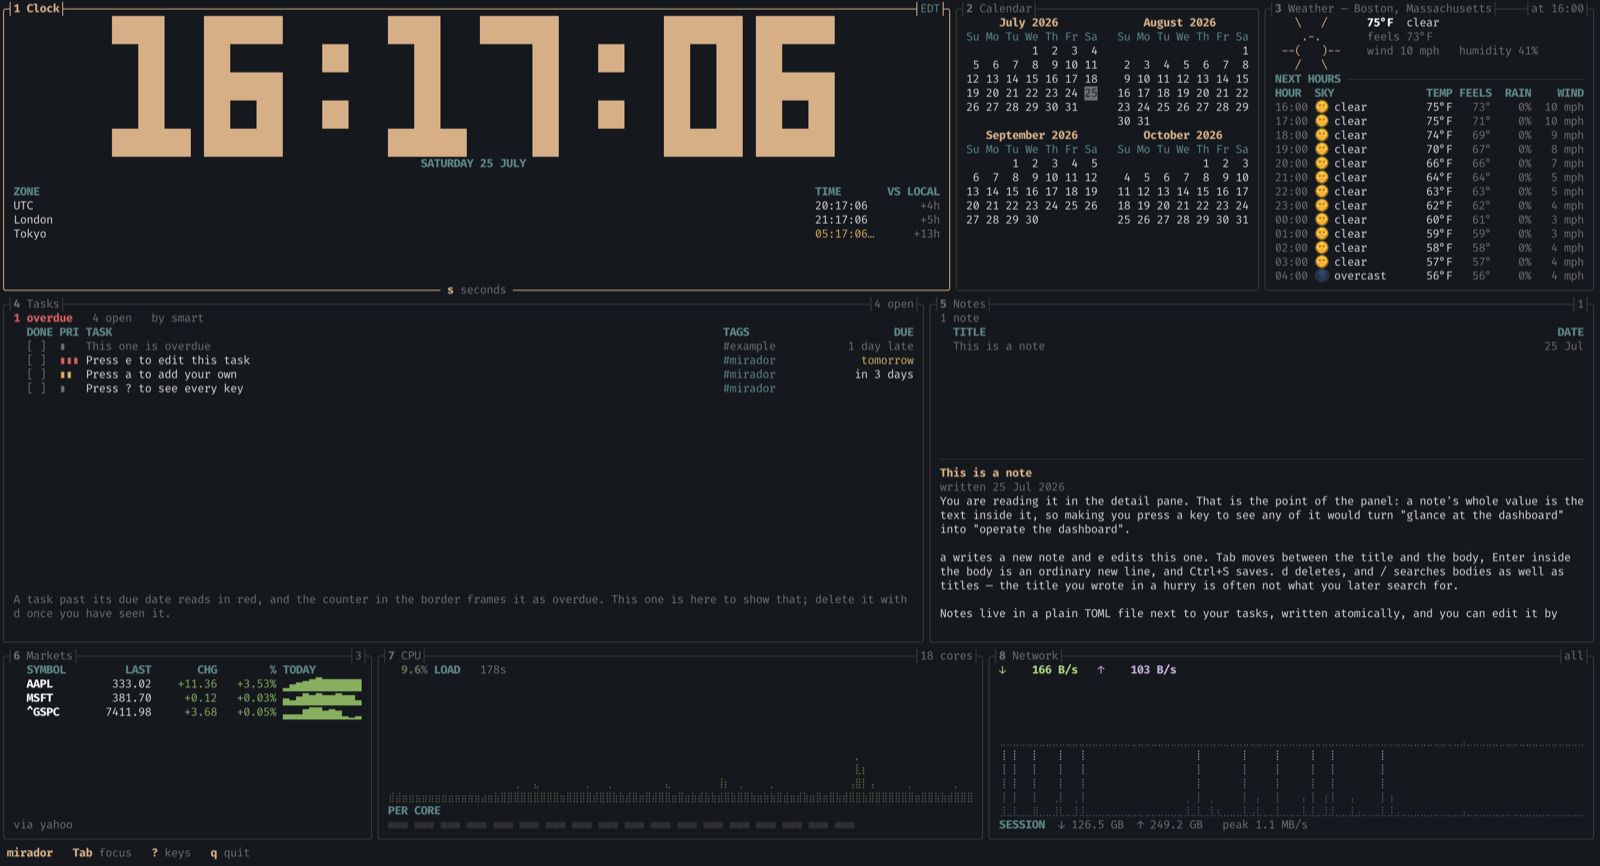
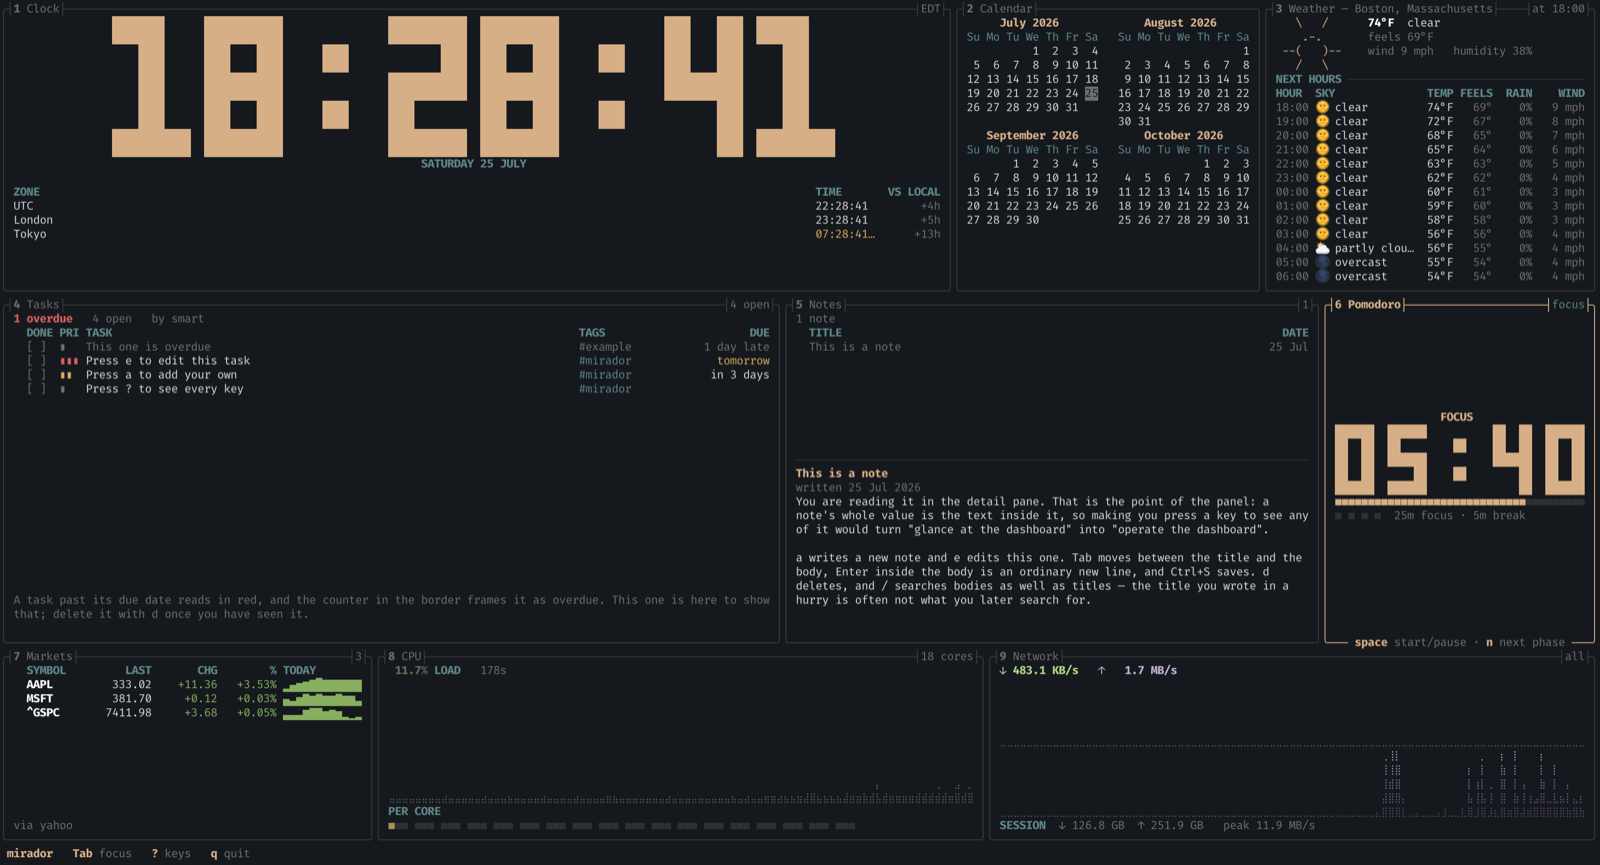
Retake the hero screenshot, with the timer in it and focused
The old one predated the pomodoro panel, so the caption had to admit as much
and point a reader somewhere else — a note written to be deleted, and this
deletes it. All nine panels are now in the shot.

It is a better capture than the one it replaces for a reason beyond the extra
panel: the pomodoro has focus, so its frame is lit and its key hints are in its
bottom border while every other panel is dimmed. Focus by recession and the
frame-as-widget-bus are two of the ideas this file describes at length and
could not previously show, and the caption now points at them rather than
describing the layout the picture already makes obvious.

Downscaled 3406px to 1600 with sips, 673 KB to 456 KB — the same sizing as
before, which keeps the forecast table and the task rows readable and stays
well above the width GitHub renders it at. Checked by eye at the final size
rather than trusting the number, since legibility is the whole reason not to
go lower.

Still referenced by absolute URL and still excluded from the published crate;
`cargo package --list` reports nothing from docs/ and nothing matching *.png.

diff --git a/README.md b/README.md
@@ -16,12 +16,12 @@ nothing shimmers, and nothing is designed to pull you back to it.
 
 A *mirador* is a lookout — the tower you climb to see everything at once.
 
-![The mirador dashboard: a block-numeral clock, four months of calendar, weather with an hourly forecast, the task list and notes, and a market watchlist beside live CPU and network graphs](https://raw.githubusercontent.com/jchultarsky/mirador/main/docs/screenshot.png)
+![The mirador dashboard: a block-numeral clock, four months of calendar, weather with an hourly forecast, the task list and notes, a running pomodoro timer, and a market watchlist beside live CPU and network graphs](https://raw.githubusercontent.com/jchultarsky/mirador/main/docs/screenshot.png)
 
-*A wide terminal on a first run — the tasks and the note are the examples
-mirador seeds for you. Every screen in this README is a real capture, not a
-mock-up. This one predates the pomodoro panel, which is shown
-[further down](#pomodoro).*
+*All nine panels on a wide terminal, on a first run — the tasks and the note
+are the examples mirador seeds for you. The pomodoro panel has focus, which is
+why its frame is lit and its key hints are in its bottom border; every other
+panel is dimmed. Every screen in this README is a real capture, not a mock-up.*
 
 ## Why
 
